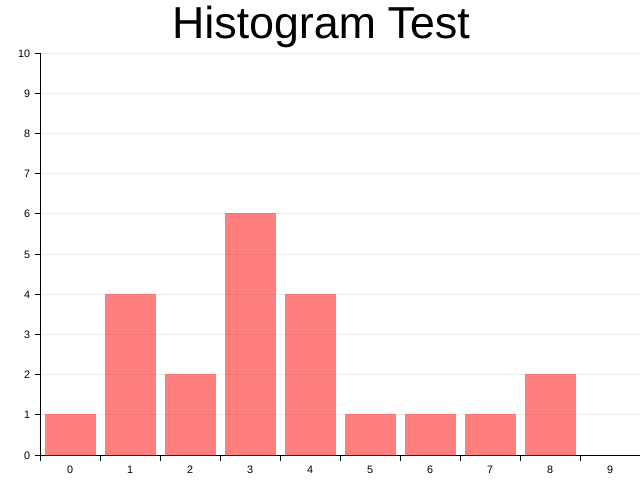
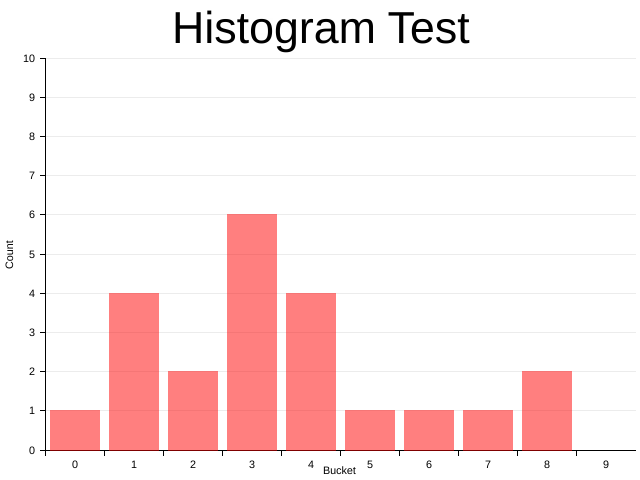
Add axis desc support

diff --git a/src/chart.rs b/src/chart.rs
@@ -24,7 +24,7 @@ use crate::coord::{
 use crate::drawing::backend::{BackendCoord, DrawingBackend};
 use crate::drawing::{DrawingArea, DrawingAreaErrorKind};
 use crate::element::{Drawable, Path, PointCollection, Rectangle};
-use crate::style::{FontDesc, Mixable, RGBColor, ShapeStyle, TextStyle};
+use crate::style::{FontDesc, Mixable, RGBColor, ShapeStyle, TextStyle, FontTransform};
 
 /// The helper object to create a chart context, which is used for the high-level figure drawing
 pub struct ChartBuilder<'a, DB: DrawingBackend> {
@@ -169,6 +169,8 @@ where
     x_label_offset: i32,
     n_x_labels: usize,
     n_y_labels: usize,
+    x_desc: Option<String>,
+    y_desc: Option<String>,
     line_style_1: Option<ShapeStyle<'a>>,
     line_style_2: Option<ShapeStyle<'a>>,
     axis_style: Option<ShapeStyle<'a>>,
@@ -272,6 +274,20 @@ where
         self
     }
 
+    /// Set the X axis's description
+    /// - `desc`: The description of the X axis
+    pub fn x_desc<T:Into<String>>(&mut self, desc:T) -> &mut Self {
+        self.x_desc = Some(desc.into());
+        self
+    }
+    
+    /// Set the Y axis's description
+    /// - `desc`: The description of the Y axis
+    pub fn y_desc<T:Into<String>>(&mut self, desc:T) -> &mut Self {
+        self.y_desc = Some(desc.into());
+        self
+    }
+
     /// Draw the configured mesh on the target plot
     pub fn draw(&mut self) -> Result<(), DrawingAreaErrorKind<DB::ErrorType>> {
         let mut target = None;
@@ -311,6 +327,8 @@ where
             false,
             false,
             &axis_style,
+            self.x_desc.clone(),
+            self.y_desc.clone(),
         )?;
 
         target.draw_mesh(
@@ -327,6 +345,8 @@ where
             self.draw_x_axis,
             self.draw_y_axis,
             &axis_style,
+            None,
+            None,
         )
     }
 }
@@ -358,6 +378,8 @@ impl<
             format_y: &|y| format!("{:?}", y),
             target: Some(self),
             _pahtom_data: PhantomData,
+            x_desc: None,
+            y_desc: None,
         }
     }
 }
@@ -432,6 +454,8 @@ impl<DB: DrawingBackend, X: Ranged, Y: Ranged> ChartContext<DB, RangedCoord<X, Y
         x_axis: bool,
         y_axis: bool,
         axis_style: &ShapeStyle,
+        x_desc: Option<String>,
+        y_desc: Option<String>,
     ) -> Result<(), DrawingAreaErrorKind<DB::ErrorType>>
     where
         FmtLabel: FnMut(&MeshLine<X, Y>) -> Option<String>,
@@ -468,7 +492,7 @@ impl<DB: DrawingBackend, X: Ranged, Y: Ranged> ChartContext<DB, RangedCoord<X, Y
         let (x0, y0) = self.drawing_area.get_base_pixel();
 
         if let Some(ref xl) = self.x_label_area {
-            let (tw, _) = xl.dim_in_pixel();
+            let (tw, th) = xl.dim_in_pixel();
             if x_axis {
                 xl.draw(&Path::new(vec![(0, 0), (tw as i32, 0)], axis_style.clone()))?;
             }
@@ -489,6 +513,19 @@ impl<DB: DrawingBackend, X: Ranged, Y: Ranged> ChartContext<DB, RangedCoord<X, Y
                         (p - x0 - w as i32 / 2 + x_label_offset, 10),
                     )?;
                 }
+            }
+
+            if let Some(ref text) = x_desc {
+                let (w, h) = label_style.font.box_size(text).unwrap_or((0, 0));
+
+                let left = (tw - w) / 2;
+                let top  = th - h;
+
+                xl.draw_text(
+                    &text,
+                    label_style,
+                    (left as i32, top as i32)
+                )?;
             }
         }
 
@@ -515,6 +552,22 @@ impl<DB: DrawingBackend, X: Ranged, Y: Ranged> ChartContext<DB, RangedCoord<X, Y
                         ))?;
                     }
                 }
+            }
+            
+            if let Some(ref text) = y_desc {
+                let (w, _) = label_style.font.box_size(text).unwrap_or((0, 0));
+
+                let top  = (th - w) / 2;
+
+                let mut y_style = label_style.clone();
+                let y_font = label_style.font.transform(FontTransform::Rotate270);
+                y_style.font = &y_font;
+
+                yl.draw_text(
+                    &text,
+                    &y_style,
+                    (0, top as i32)
+                )?;
             }
         }
 

diff --git a/examples/histogram.rs b/examples/histogram.rs
@@ -7,6 +7,7 @@ fn main() -> Result<(), Box<dyn std::error::Error>> {
     let mut chart = ChartBuilder::on(&root)
         .x_label_area_size(25)
         .y_label_area_size(40)
+        .margin(5)
         .caption("Histogram Test", &("Arial", 50.0).into_font())
         .build_ranged(0u32..10u32, 0u32..10u32)?;
 
@@ -15,6 +16,8 @@ fn main() -> Result<(), Box<dyn std::error::Error>> {
         .disable_x_mesh()
         .line_style_1(&White.mix(0.3))
         .x_label_offset(30)
+        .y_desc("Count")
+        .x_desc("Bucket")
         .draw()?;
 
     let data = [

diff --git a/src/style/mod.rs b/src/style/mod.rs
@@ -29,6 +29,8 @@ impl<'a> TextStyle<'a> {
             color,
         }
     }
+
+    // TODO: How to make the font transform inside the text style
 }
 
 impl<'a, 'b: 'a> Into<TextStyle<'a>> for &'b TextStyle<'a> {

diff --git a/CHANGELOG.md b/CHANGELOG.md
@@ -4,6 +4,7 @@
 
 ### Added
 - Font is now support rotation transformation. Use `FontDesc::transform` to apply an rotation to transformation. For example, `font.transform(FontTransform::Rotate90)`.
+- ChartContext now support drawing axis description. Use `MeshStyle::x_desc` and `MeshStyle::y_desc` to specify the axis description text.
 
 ## Plotters 0.1.13 (2019-05-31)
 
